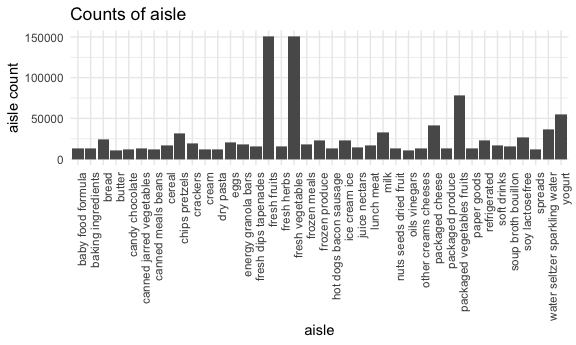
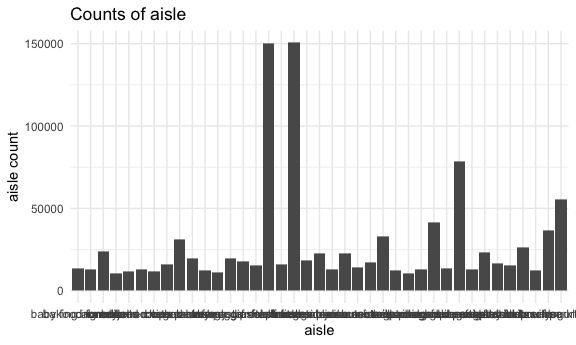
problem 1 unsolved.

diff --git a/p8105_hw3_hz2710.md b/p8105_hw3_hz2710.md
@@ -14,28 +14,33 @@ instacart = instacart
 
 The goal is to do some exploration of this dataset.
 
-The dataset has 1384617 rows and 15 columns, including of order\_id,
-product\_id, add\_to\_cart\_order, reordered, user\_id, eval\_set,
-order\_number, order\_dow, order\_hour\_of\_day,
-days\_since\_prior\_order, product\_name, aisle\_id, department\_id,
-aisle, department variables. For example, we can see the first row shows
-that an item shopped in an order with id is 1, id of the product is
-49302, the first item added in the cart was reordered the first time by
-a user with id 112108. It was the 4th time for this user. He bought the
-product at the 10th hour of the day on the 4th day of the week. Since
-the last order, it had been 9 days. The product name is ‘Bulgarian
-Yogurt’. The aisle id and name is 120 and ‘yogurt’. The department id
-and name is 16 and ‘dairy eggs’.
+-   The dataset has 1384617 rows and 15 columns, including of order\_id,
+    product\_id, add\_to\_cart\_order, reordered, user\_id, eval\_set,
+    order\_number, order\_dow, order\_hour\_of\_day,
+    days\_since\_prior\_order, product\_name, aisle\_id, department\_id,
+    aisle, department variables.
+-   For example, we can see the first row shows that an item shopped in
+    an order with id is 1, id of the product is 49302, the first item
+    added in the cart was reordered the first time by a user with
+    id 112108. It was the 4th time for this user. He bought the product
+    at the 10th hour of the day on Thursday. Since the last order, it
+    had been 9 days. The product name is ‘Bulgarian Yogurt’. The aisle
+    id and name is 120 and ‘yogurt’. The department id and name is 16
+    and ‘dairy eggs’.
 
-There are 134 aisles here, and the most items ordered from fresh
-vegetables. Fresh vegetables are common and necessary supplies and there
-are many types of them.
+| order\_id | product\_id | add\_to\_cart\_order | reordered | user\_id | eval\_set | order\_number | order\_dow | order\_hour\_of\_day | days\_since\_prior\_order | product\_name    | aisle\_id | department\_id | aisle  | department |
+|----------:|------------:|---------------------:|----------:|---------:|:----------|--------------:|-----------:|---------------------:|--------------------------:|:-----------------|----------:|---------------:|:-------|:-----------|
+|         1 |       49302 |                    1 |         1 |   112108 | train     |             4 |          4 |                   10 |                         9 | Bulgarian Yogurt |       120 |             16 | yogurt | dairy eggs |
 
-Make a plot that shows the number of items ordered in each aisle,
-limiting this to aisles with more than 10000 items ordered.
+-   There are 134 aisles here, and the most items ordered from fresh
+    vegetables. Fresh vegetables are common and necessary supplies.
+
+-   A plot that shows the number of items ordered in each aisle,
+    limiting this to aisles with more than 10000 items ordered.
 
 ``` r
-instacart %>%
+plot1 =
+  instacart %>%
   group_by(aisle) %>%
   mutate(
     aisle_count = length(aisle)
@@ -43,15 +48,61 @@ instacart %>%
   filter(aisle_count > 10000) %>%
   ggplot(aes(x = aisle)) +
     geom_bar() + 
-    theme(axis.text.x = element_text(angle = 90, hjust = 1)) +
     labs(x = "aisle", y = "aisle count", title = "Counts of aisle") 
+
+plot1
 ```
 
 <img src="p8105_hw3_hz2710_files/figure-gfm/unnamed-chunk-2-1.png" width="90%" />
 
-Make a table showing the three most popular items in each of the aisles
-“baking ingredients”, “dog food care”, and “packaged vegetables fruits”.
-Include the number of times each item is ordered in your table.
+-   A table showing the three most popular items in each of the aisles
+    “baking ingredients”, “dog food care”, and “packaged vegetables
+    fruits”. Include the number of times each item is ordered in your
+    table.
+
+``` r
+pop_items = 
+  instacart %>%
+  filter(
+    aisle %in% c("baking ingredients","dog food care","packaged vegetables fruits")
+  ) %>%
+  group_by(aisle) %>%
+  count(product_name,name = "product_count") %>%
+  top_n(3) %>%
+  knitr::kable()
+```
+
+    ## Selecting by product_count
+
+``` r
+instacart %>%
+  filter(
+    aisle %in% c("baking ingredients","dog food care","packaged vegetables fruits")
+  ) %>%
+  group_by(aisle,product_name) %>%
+  summarize(product_count = length(product_name)) %>%
+  mutate(
+    product_count = order(product_count, decreasing = TRUE),
+    product_rank_within_aisle = rank(product_count)
+  ) %>%
+  filter(product_rank_within_aisle <= 3) %>%
+  select(-product_rank_within_aisle) %>%
+  knitr::kable()
+```
+
+    ## `summarise()` has grouped output by 'aisle'. You can override using the `.groups` argument.
+
+| aisle                      | product\_name                                                        | product\_count |
+|:---------------------------|:---------------------------------------------------------------------|---------------:|
+| baking ingredients         | Low Fat 2% Evaporated Milk                                           |              1 |
+| baking ingredients         | Organic Coconut Flour                                                |              2 |
+| baking ingredients         | Organic Spelt Flour                                                  |              3 |
+| dog food care              | Canine Cuisine Prime Rib Flavor Gourmet Filets in Sauce Wet Dog Food |              1 |
+| dog food care              | Choice Cuts In Gravy with Chicken & Rice Dog Food                    |              2 |
+| dog food care              | Choice Cuts® Beef Combo                                              |              3 |
+| packaged vegetables fruits | Carrots, Bag                                                         |              3 |
+| packaged vegetables fruits | Classic Blend Cole Slaw                                              |              2 |
+| packaged vegetables fruits | Cocktail Tomatoes                                                    |              1 |
 
 Make a table showing the mean hour of the day at which Pink Lady Apples
 and Coffee Ice Cream are ordered on each day of the week; format this
